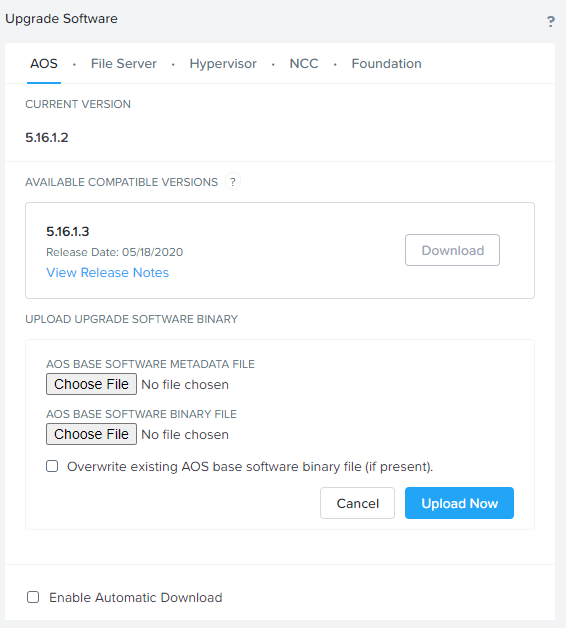
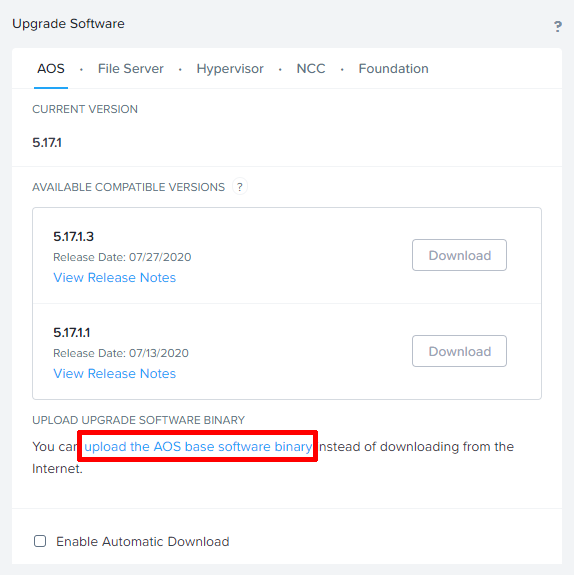
8-13-20.6
Misc fixes.

diff --git a/aos_upgrade/aos_upgrade.rst b/aos_upgrade/aos_upgrade.rst
@@ -22,11 +22,11 @@ Each node in a cluster runs AOS. When commencing an upgrade, every node will be 
 
    - If you use Prism Central to manage your Nutanix clusters, upgrade Prism Central first, then upgrade AOS on the clusters managed by Prism Central.
 
-   - Depending on the version of AOS and LCM, upgrading AOS may also be performed in LCM, or exclusively availabile in LCM. Utilizing is the recommended method to upgrade software and firmware on Nutanix. Please see the :ref:`lcm` section to learn more about performing upgrades using LCM. Otherwise, proceed with the following steps.
+   - Depending on the version of AOS and LCM, upgrading AOS may also be performed in LCM, or exclusively availabile in LCM. Utilizing LCM is the recommended method to upgrade software and firmware on Nutanix, and will eventually become to sole mechanism for all software and firmware upgrades. Please see the :ref:`lcm` section to learn more about performing upgrades using LCM. Otherwise, proceed with the following steps labeled *Legacy AOS Upgrade*.
 
    - Visit the `Upgrade Paths <https://portal.nutanix.com/page/documents/upgrade-paths>`_ page, and choose **AOS** from the *Software Types* section. Input the *Current Release Version* and *Target Release Version* to confirm the upgrade you are attempting is supported.
 
-   - If you encounter errors with the upgrade procedure as outlined below (ex. install hang) contact support to assist. A failure on the initial node will prevent the process proceeding on subsequent nodes to ensure multiple nodes aren’t taken offline from the same issue.
+   - If you encounter errors with the upgrade procedure as outlined below (ex. install hang) contact support to assist. A failure on the initial node will prevent the upgrade process proceeding on subsequent nodes to ensure multiple nodes aren’t taken offline from the same issue.
 
 Legacy AOS upgrade
 ++++++++++++++++++
@@ -35,8 +35,8 @@ Legacy AOS upgrade
 
 #. Click the :fa:`gear` **> Settings > Upgrade Software > AOS**, or from the dropdown menu choose **Settings > Upgrade Software > AOS** to display the current status of your software versions (and start an upgrade if available and desired).
 
-.. figure:: images/1.png
-   :align: right
+   .. figure:: images/1.png
+      :align: right
 
    - *CURRENT VERSION* displays the version running currently in the cluster.
 
@@ -44,7 +44,7 @@ Legacy AOS upgrade
 
    - The upload the AOS base software binary link enables you to install from binary and metadata files, which might be helpful for updating isolated (dark-site) clusters not connected to the Internet.
 
-#. *Optional* To run the pre-upgrade installation checks only on the Controller VM where you are logged on without upgrading, click **Upgrade > Pre-upgrade**. These checks also run as part of the upgrade procedure.
+#. *Optional* To run the pre-upgrade installation checks only on the Controller VM where you are logged on without upgrading, click **Upgrade > Pre-upgrade**. These checks will also run as part of the upgrade procedure, and is not required to run separately.
 
 #. Before executing upgrade, we recommend performing one of the following to illustrate that workloads will continue to run without interruption while the AOS upgrade proceeds.
 
@@ -65,6 +65,7 @@ Legacy AOS upgrade
          :align: center
 
       .. figure:: images/4.png
+         :align: right
 
    - Upgrading AOS by uploading binary and metadata files
 

diff --git a/node_addremove/node_addremove.rst b/node_addremove/node_addremove.rst
@@ -25,14 +25,14 @@ A customer may choose to add a node to account for a new workloads, or perhaps i
    Before performing the procedure below, make sure you are running the latest version of the Nutanix Cluster Check (NCC) health checks and upgrade NCC if necessary.  Run all NCC checks, and check the Health Dashboard. If any health checks are failing, resolve them to ensure that the cluster is healthy before continuing.
 
    These instuctions assume:
-      All nodes have the same hardware configuration, AOS/AHV versions, and passwords.
-      Data-at-rest encryption is not in use.
-      Rack awareness is not in use.
+      - All nodes have the same hardware configuration, AOS/AHV versions, and passwords.
+      - Data-at-rest encryption is not in use.
+      - Rack awareness is not in use.
 
 Remove node
 +++++++++++
 
-#. From the dropdown, choose the **Home** dashboard. Observe the **Hosts** count within the *Hardware Sumnmary*, and the total **Storage** **CPU** and **Memory** values before and after proceeding with the instructions below.
+#. From the dropdown, choose the **Home** dashboard. Observe the **Hosts** count within the *Hardware Sumnmary*, and the total **Storage**, **CPU**, and **Memory** values before and after proceeding with the instructions below.
 
    .. figure:: images/7.png
       :align: center
@@ -46,12 +46,12 @@ Remove node
 
    Removing a host takes some time because data on that host must be migrated to other hosts before it can be removed from the cluster. You can monitor progress through the dashboard messages. Removing a host automatically removes all the disks in that host. Only one host can be removed at a time. If you want to remove multiple hosts, you must wait until the first host is removed completely before attempting to remove the next host.
 
-   After a node is removed, it goes into an unconfigured state. You can add such a node back into the cluster through the Add Node(s) workflow.
+   After a node is removed, it goes into an unconfigured state. You can add such a node back into the cluster through the Add Node(s) workflow below.
 
 Add node
 ++++++++
 
-#. From the dropdown, choose the **Home** dashboard. Observe the **Hosts** count within the *Hardware Sumnmary*, and the total **Storage** **CPU** and **Memory** values before and after proceeding with the instructions below.
+#. From the dropdown, choose the **Home** dashboard. Observe the **Hosts** count within the *Hardware Sumnmary*, and the total **Storage**, **CPU**, and **Memory** values before and after proceeding with the instructions below.
 
    .. figure:: images/7.png
       :align: center

diff --git a/xray/xray.rst b/xray/xray.rst
@@ -1,8 +1,8 @@
 .. _xray:
 
------
-X-RAY
------
+-------------------
+Starting with X-Ray
+-------------------
 
 **Pre-requisites:** Completion of :ref:`vmmanage`
 
@@ -51,8 +51,6 @@ Installation and configuration of X-Ray
 
    - **Memory** - 8
 
-   .. figure:: images/4.png
-
 #. Define a second NIC on the X-Ray VM. The second interface controls zero-configuration access from the X-Ray VM to the test VMs. For zero-configuration purposes, configure the second interface to use the same *Primary* VLAN.
 
 #. Power on the new X-Ray VM, and open its console.
@@ -63,15 +61,17 @@ Installation and configuration of X-Ray
 
 #. Within the X-Ray VM, click **Application > System Tools > Settings**.
 
-#. Click the :fa:`gear` within the *eth0* section.
+#. Click on **Network** and then the :fa:`gear` within the *eth0* section.
 
-   .. figure:: images/10.png
+   .. figure:: images/9.png
 
 #. Click on the **IPv4** heading.
 
-   .. figure:: images/11.png
+   .. figure:: images/10.png
 
-#. Under *IPv4 Method* choose **Manual**. Enter the appropriate network information within the **Addresses** and **DNS** sections only. Click **Apply**.
+#. Under *IPv4 Method* choose **Manual**. Enter the appropriate network information within the **Addresses** and **DNS** sections only. Switch the *Automatic* slider in the *DNS* section to **OFF**. Click **Apply**.
+
+   .. figure:: images/10a.png
 
 #. You may now exit the console.
 
@@ -130,3 +130,5 @@ Creating an X-Ray Test Target
 
    .. figure:: images/15.png
       :align: right
+
+You've now successfully added a target from which to run X-Ray tests. You may continue to the :ref:`xray1` where you may run a variety of tests, or straight to :ref:`xray3`. Once you've completed either section, you should visit the :ref:`xray2` section.

diff --git a/failure/psu/psu.rst b/failure/psu/psu.rst
@@ -14,25 +14,21 @@ In this section, we will be simulating a power failure by removing power from on
 
 .. figure:: images/psug4.png
    :align: left
-   :scale: 50%
 
    `Power Supply Unit (PSU) Redundancy and Node Configuration for G4 platforms <https://portal.nutanix.com/page/documents/details?targetId=System-Specs-G4-Multinode:har-psu-redundancy-table-r.html>`_
 
 .. figure:: images/psug5.png
    :align: right
-   :scale: 50%
 
    `Power Supply Unit (PSU) Redundancy and Node Configuration for G5 platforms <https://portal.nutanix.com/page/documents/details?targetId=System-Specs-G5-Single-Node:har-psu-redundancy-table-r.html>`_
 
 .. figure:: images/psug6.png
    :align: left
-   :scale: 50%
 
    `Power Supply Unit (PSU) Redundancy and Node Configuration for G6 platforms <https://portal.nutanix.com/page/documents/details?targetId=System-Specs-G6-Multinode:har-psu-redundancy-table-g6-r.html>`_
 
 .. figure:: images/psug7.png
    :align: right
-   :scale: 50%
 
    `Power Supply Unit (PSU) Redundancy and Node Configuration for G7 platforms <https://portal.nutanix.com/page/documents/details?targetId=System-Specs-G7-Multinode:har-psu-redundancy-table-r.html>`_
 

diff --git a/lcm/lcm.rst b/lcm/lcm.rst
@@ -25,11 +25,11 @@ What is LCM?
 
 - Once a customer performs an inventory of their cluster, all the firmware is downloaded and staged. From there, users can deploy the updates with as much or as little granularity as they desire. You can either select individual entities for upgrade or do the entire cluster at once (subject to what the actual component being upgraded allows).
 
-- A Dark Site LCM version is available
+- A Dark Site LCM version is available.
 
 .. note::
 
-   For detailed information about LCM, please refer to the `Life Cycle Manager Guide v2.2 <https://portal.nutanix.com/page/documents/details?targetId=Life-Cycle-Manager-Guide-v2_3:Life-Cycle-Manager-Guide-v2_3>`_
+   For detailed information about LCM, please refer to the `Life Cycle Manager Guide v2.3 <https://portal.nutanix.com/page/documents/details?targetId=Life-Cycle-Manager-Guide-v2_3:Life-Cycle-Manager-Guide-v2_3>`_
 
 Performing Inventory with LCM
 +++++++++++++++++++++++++++++

diff --git a/files/files1/files1.rst b/files/files1/files1.rst
@@ -73,8 +73,6 @@ Creating a File Server
 
 #. The *Create File Server* window appears and displays the *Basics* tab. Do the following in the indicated fields:
 
-   .. figure:: images/3.png
-
    - **Name**: Enter **Files** as the name for the file server.
 
       The file server name is used by clients to access the file server. The fully qualified name (file server name + domain) must be unique.
@@ -82,6 +80,8 @@ Creating a File Server
    - **Domain**: **ntnxlab.local** if using AutoAD, otherwise customer-provided Active Directory domain.
 
    - **File Server Storage**: Enter the file server total storage size (minimum 1 TiB).
+
+   .. figure:: images/3.png
 
    - Click the **Next** button.
 

diff --git a/xray/xray3/xray3.rst b/xray/xray3/xray3.rst
@@ -1,7 +1,7 @@
 .. _xray3:
 
-Executing the OLTP Test
-+++++++++++++++++++++++
+Executing the OLTP Simulator
+++++++++++++++++++++++++++++
 
 The X-Ray test scenarios offer predefined test cases that consist of multiple events and predefined parameters. X-Ray executes scenarios against test targets to produce results for analysis. X-Ray scenarios simulate real-world workloads on test targets. Effective virtualized data center solutions delegate resources so that workloads do not monopolize resources from other workloads. Running different workloads in this manner helps evaluate how multiple workloads interact with one another.
 

diff --git a/failure/hdd/hdd.rst b/failure/hdd/hdd.rst
@@ -75,7 +75,7 @@ This test demonstrates the ability of Nutanix's AOS to immediately begin rebuild
 
       To refresh the screen hit CTRL+R
 
-#. Once the disk has been successfully removed, hit CTRL+C to exit the *Rebuild Estimator*.
+#. Once the disk has been successfully removed, hit **CTRL+C** to exit the *Rebuild Estimator*.
 
 #. Enable hidden commands in ncli by running ``ncli -h=true``.
 
